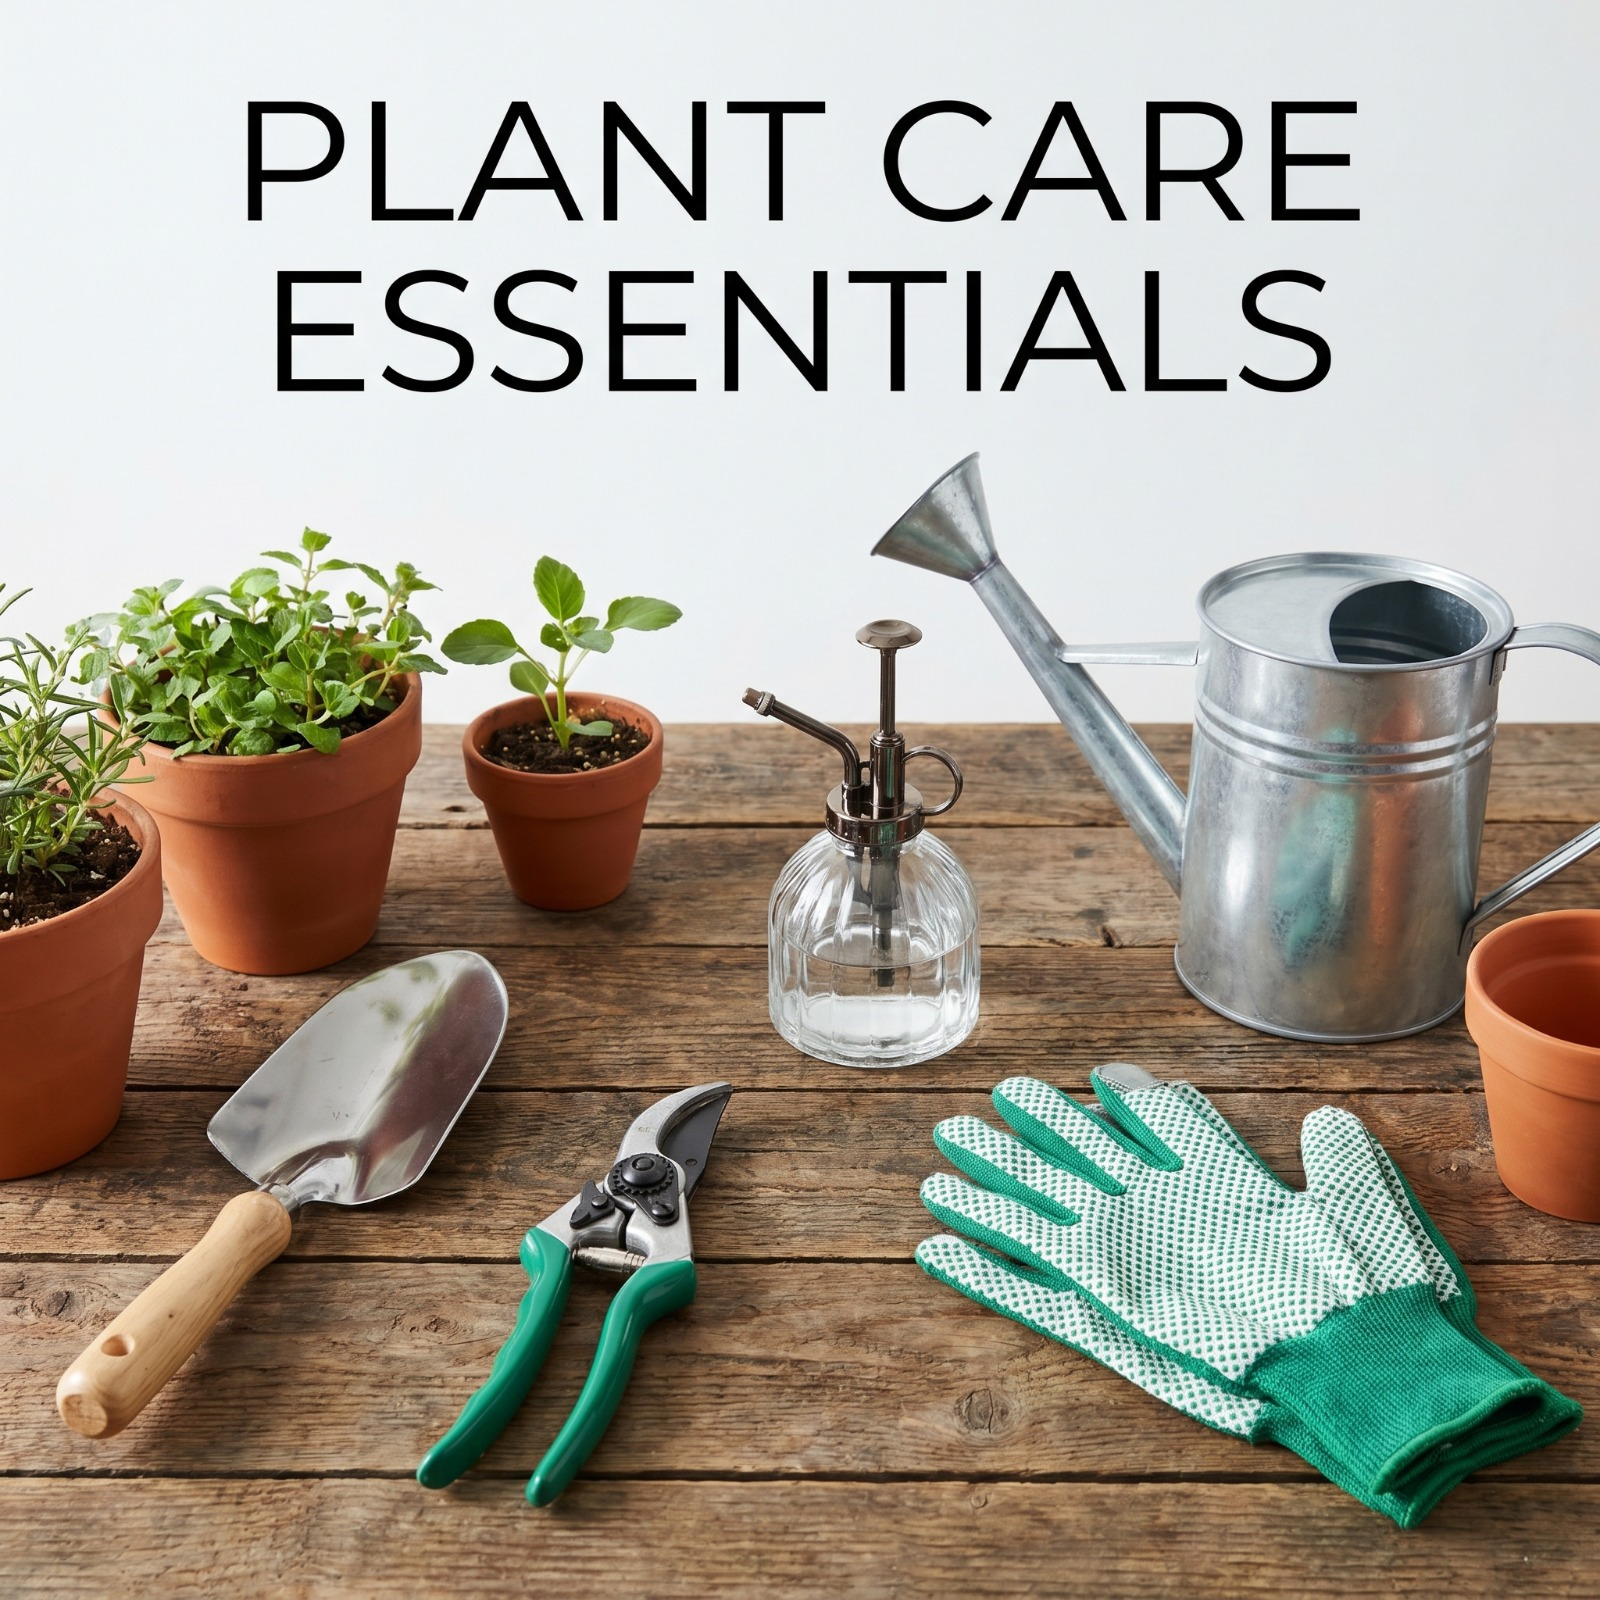
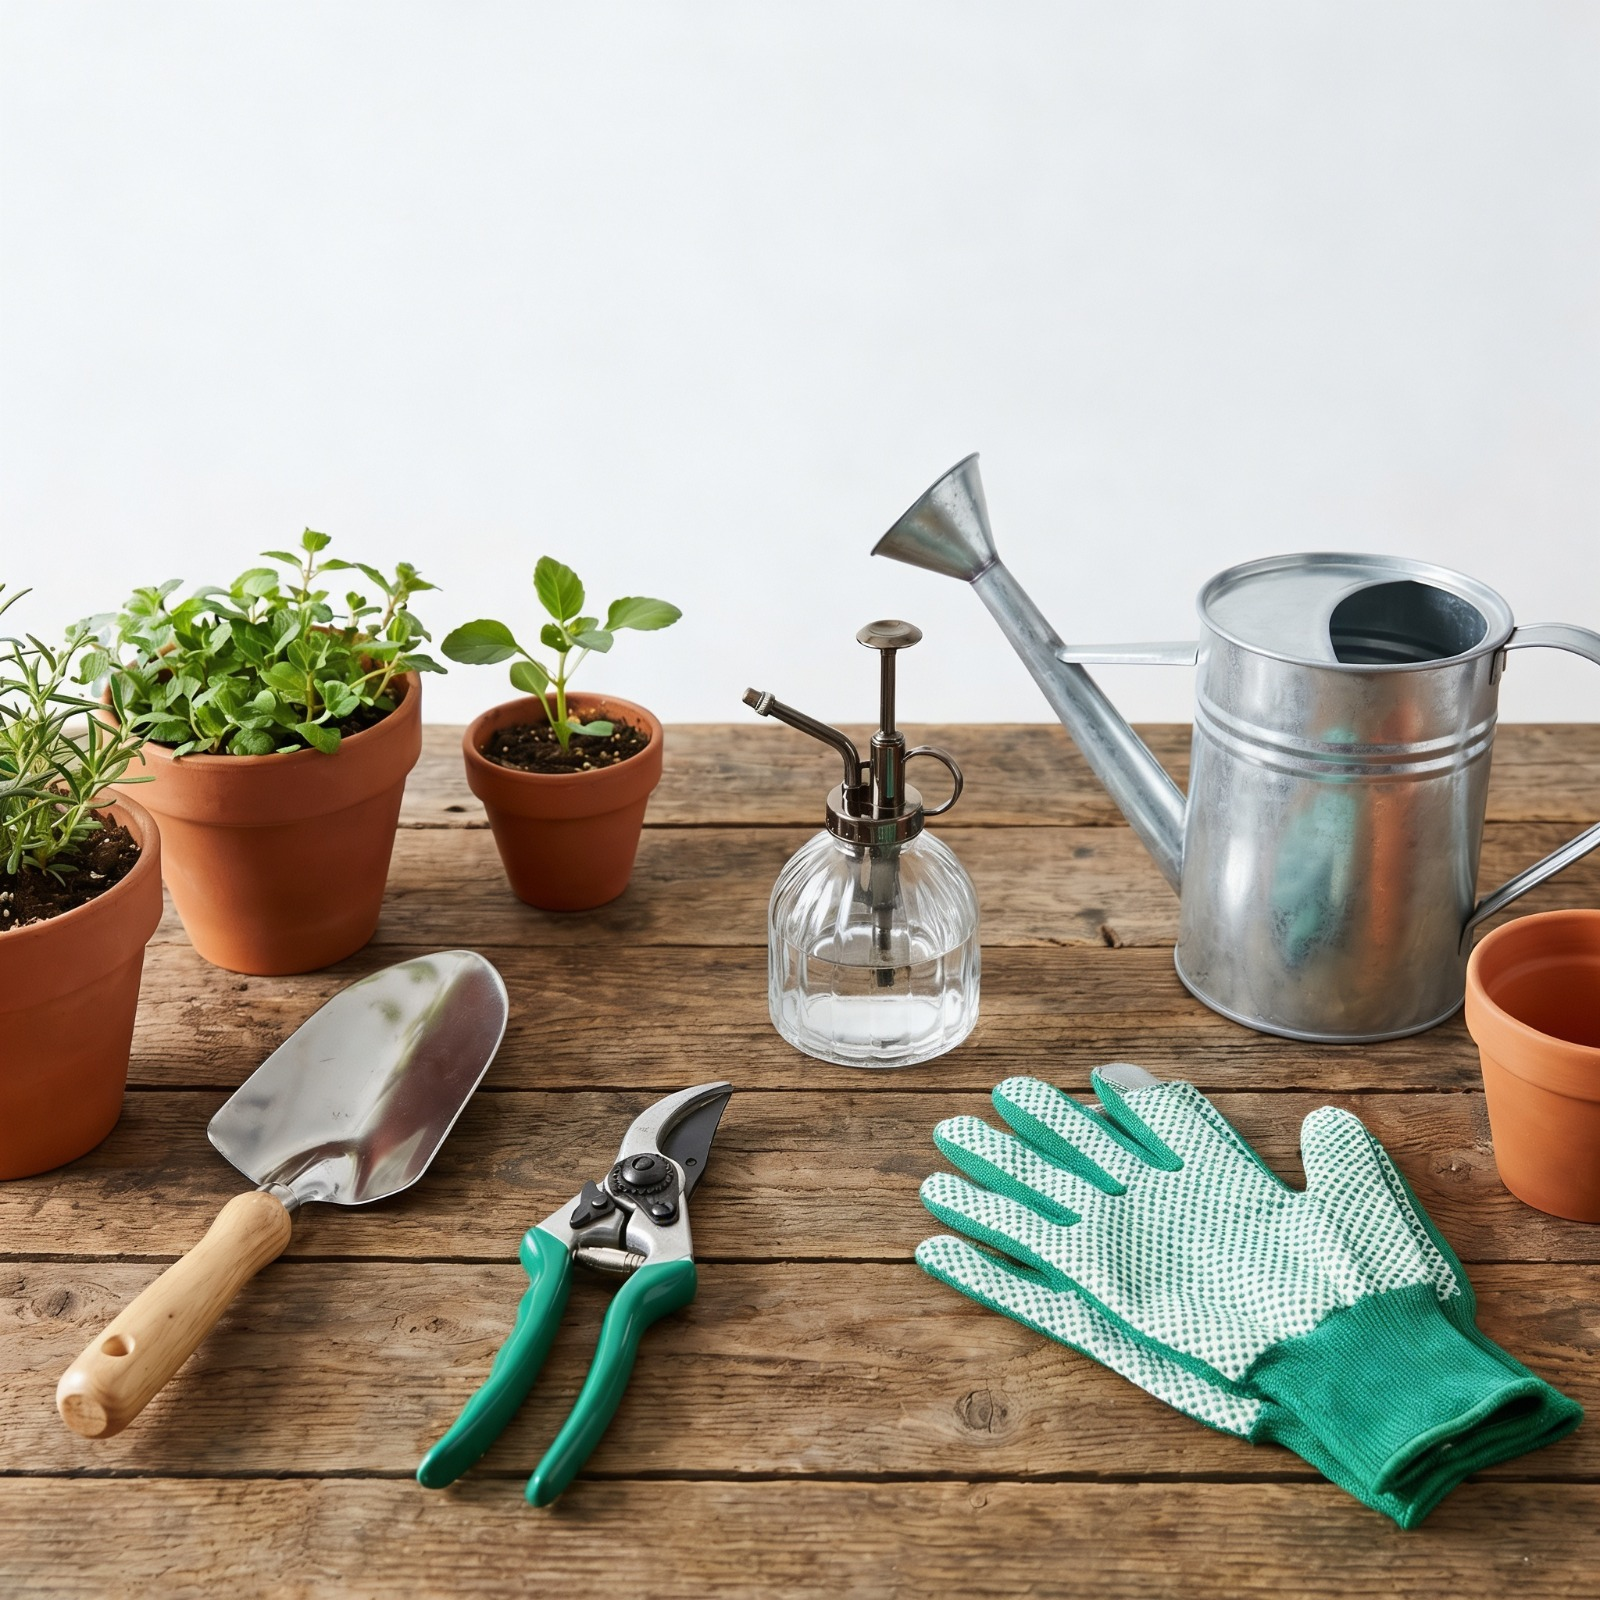
image position,social media links added

diff --git a/src/components/layout/Footer.tsx b/src/components/layout/Footer.tsx
@@ -52,23 +52,24 @@ export const Footer = () => {
 
   {/* Instagram */}
   <a
-    href="https://www.instagram.com/rastlina2025"
-    target="_blank"
-    rel="noopener noreferrer"
-    className="p-2.5 rounded-full bg-white/10 hover:bg-accent-gold transition-colors"
-    aria-label="Instagram"
-  >
-    <Instagram className="h-4 w-4" />
-  </a>
+  href="https://www.instagram.com/rastlina_naturehub/"
+  target="_blank"
+  rel="noopener noreferrer"
+  className="p-2.5 rounded-full bg-white/10 hover:bg-accent-gold transition-colors"
+  aria-label="Instagram"
+>
+  <Instagram className="h-4 w-4" />
+</a>
 
-  {/* Facebook Placeholder */}
-  <a
-    href="#"
-    className="p-2.5 rounded-full bg-white/10 hover:bg-accent-gold transition-colors opacity-70"
-    aria-label="Facebook"
-  >
-    <Facebook className="h-4 w-4" />
-  </a>
+<a
+  href="https://www.facebook.com/profile.php?id=61590102247893"
+  target="_blank"
+  rel="noopener noreferrer"
+  className="p-2.5 rounded-full bg-white/10 hover:bg-accent-gold transition-colors"
+  aria-label="Facebook"
+>
+  <Facebook className="h-4 w-4" />
+</a>
 
   {/* X / Twitter Placeholder */}
   <a
@@ -126,7 +127,7 @@ export const Footer = () => {
                   href="tel:+919915473575"
                   className="hover:text-accent-gold transition-colors"
                 >
-                  +91 99154 73575
+                  +91 8143814466 
                 </a>
               </li>
 

diff --git a/src/pages/Contact.tsx b/src/pages/Contact.tsx
@@ -110,7 +110,7 @@ export default function Contact() {
             <div className="space-y-4 pt-12 border-t border-white/20 mt-12">
               <div className="flex items-center gap-3 text-sm">
                 <Phone className="h-4 w-4 text-accent-gold" />
-                <span>+91 99154 73575</span>
+                <span>+91 8143814466 </span>
               </div>
               <div className="flex items-center gap-3 text-sm">
                 <Mail className="h-4 w-4 text-accent-gold" />

diff --git a/src/components/home/GardenEssentials.tsx b/src/components/home/GardenEssentials.tsx
@@ -13,7 +13,7 @@ const items = [
   {
     title: 'Premium Planters',
     desc: 'Ceramic, Terracotta & Stands',
-    image: balconyImg,
+    image: officeImg,
     link: '/shop?main_category=planters',
   },
   {
@@ -25,7 +25,7 @@ const items = [
   {
     title: 'Plant Care',
     desc: 'Soils, Fertilizers & Tools',
-    image: officeImg,
+    image: balconyImg,
     link: '/shop?main_category=care',
   },
 ];

diff --git a/src/data/blogs.ts b/src/data/blogs.ts
@@ -255,7 +255,7 @@ export const blogs = [
 
   {
     id: 3,
-    title: 'Styling Your Balcony with Vertical Gardens',
+    title: 'Best Site to Buy Plants Online India with Fast Delivery & Great Prices',
     excerpt:
       'Short on space? Here is how to create a lush green wall in small urban apartments. Complete guide to designing, building, and maintaining a stunning vertical garden.',
     image: blog3,
